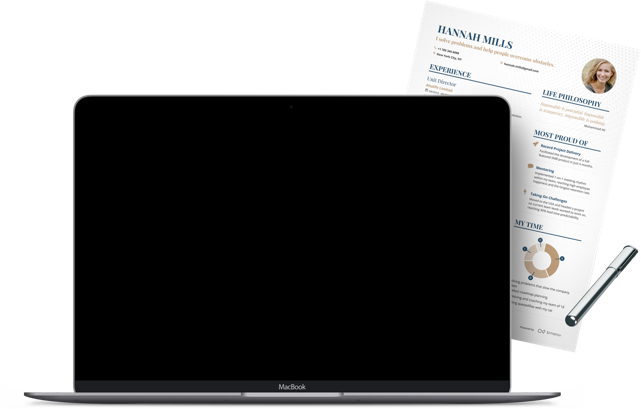
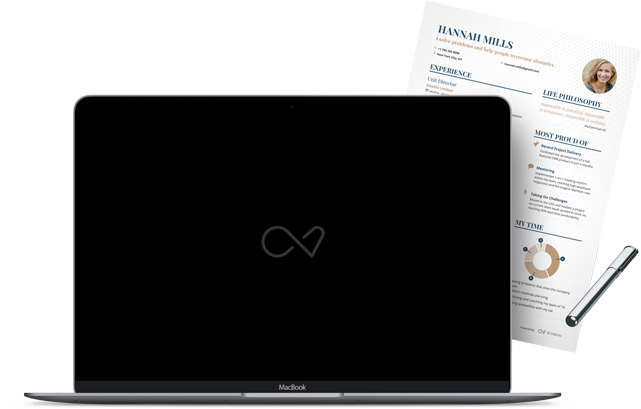
update image and spacing

diff --git a/src/pages/index.html b/src/pages/index.html
@@ -8,7 +8,7 @@ socialDescription: "Create your resume with Enhancv to make sure the key things 
 <div class="homepage-intro">
     <div class="container text-center">
         <h1 class="hidden-xs hidden-sm md-lg-heading-margin">A resume to be proud of</h1>
-        <h1 class="hidden-md hidden-lg xs-sm-heading-margin">A resume<span class="hidden"><br /></span> to be proud of</h1>
+        <h1 class="hidden-md hidden-lg xs-sm-heading-margin">A resume<span class="hidden-br">to be proud of</span></h1>
 
         <div class="m-top-0">
             <p class="p-big hidden-xs hidden-sm m-top-0">Stand out and make sure the key things come across</p>
@@ -181,7 +181,7 @@ socialDescription: "Create your resume with Enhancv to make sure the key things 
         <div class="Grid Grid--alignCenter Grid-cell--lg-7 Grid-cell--sm-7 relative">
             <div class="relative">
                 <img class="static-monitor" src="/img/new-homepage/customize.png" />
-                <img class="gif-monitor" src="/img/new-homepage/monitor_gif.gif" />
+                <img class="gif-monitor hidden" src="/img/new-homepage/monitor_gif.gif" />
             </div>
         </div>
     </div>

diff --git a/src/assets/js/app.js b/src/assets/js/app.js
@@ -157,6 +157,10 @@ $(function() {
             $(".articles-scrollable").html(articleWrapper.html());
         });
     }
+
+    $(".gif-monitor")
+        .removeClass("hidden")
+        .attr("src", "/img/new-homepage/monitor_gif.gif");
 });
 
 window.sr = ScrollReveal();

diff --git a/src/assets/scss/pages/homepage.scss b/src/assets/scss/pages/homepage.scss
@@ -23,6 +23,16 @@ $homepage-background: #eaf8f3;
     }
 }
 
+.hidden-br {
+    display: inline;
+}
+
+@media screen and (max-width: 480px) {
+    .hidden-br {
+        display: block;
+    }
+}
+
 @keyframes fadein {
     from {
         opacity: 0;
